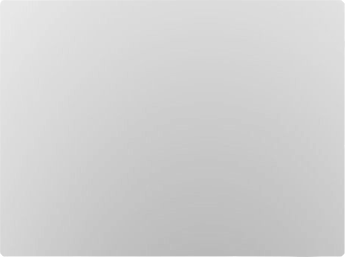
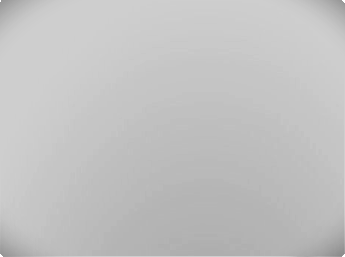
색상 변경 기능 추가: 아이팟 틀과 그라데이션 배경 동기화, 4가지 색상 지원 (기본/파랑/분홍/보라)

diff --git a/index.html b/index.html
@@ -52,6 +52,8 @@
             background-size: cover;
             background-position: center;
             z-index: 1;
+            opacity: 0.9;      /* 90% opacity */
+            filter: blur(3px); /* 3px 블러 효과 */
         }
 
         .screen-content {
@@ -82,7 +84,7 @@
         }
 
         .nav-arrow {
-            color: #fff;       /* unchanged - color */
+            color: #fff;       /* 흰색으로 복원 */
             font-size: 14.4px; /* 12px × 1.2 → 14.4px */
             cursor: pointer;
             transition: all 0.3s ease; /* unchanged - transition time */
@@ -91,12 +93,12 @@
         }
 
         .nav-arrow:hover {
-            color: rgba(255, 255, 255, 0.9); /* 0.8 → 0.9 (10% 밝기 증가) */
+            color: rgba(255, 255, 255, 0.9); /* 흰색으로 복원 */
             transform: scale(1.2); /* unchanged - scale ratio */
         }
 
         .time-display {
-            color: rgba(255, 255, 255, 1); /* 0.9 → 1 (10% 밝기 증가) */
+            color: rgba(255, 255, 255, 1); /* 흰색으로 복원 */
             font-size: 21.6px; /* 18px × 1.2 → 21.6px */
             font-weight: 900;  /* unchanged */
             cursor: pointer;
@@ -108,7 +110,7 @@
         }
 
         .time-display:hover {
-            color: rgba(255, 255, 255, 1); /* 유지 - 이미 최대 밝기 */
+            color: rgba(255, 255, 255, 1); /* 흰색으로 복원 */
             transform: scale(1.1); /* unchanged - scale ratio */
             text-shadow: 0 0 12px rgba(255, 255, 255, 0.7); /* 0.6 → 0.7 (10% 밝기 증가) */
         }
@@ -128,16 +130,16 @@
         }
 
         .album-art-container {
-            width: 99px;       /* 82.5px × 1.2 → 99px */
-            height: 81px;      /* 67.5px × 1.2 → 81px */
-            margin: 7.8px auto; /* 6.5px × 1.2 → 7.8px */
-            border-radius: 6px; /* 5px × 1.2 → 6px */
+            width: 89px;
+            height: 86px;
+            margin: 4.8px;
+            border-radius: 6px;
             overflow: hidden;
-            box-shadow: 0 1.2px 4.8px rgba(0,0,0,0.4); /* 1px × 1.2 → 1.2px, 4px × 1.2 → 4.8px */
-            transition: all 0.3s ease; /* unchanged - transition time */
+            box-shadow: 0 1.2px 4.8px rgba(0, 0, 0, 0.4);
+            transition: all 0.3s ease;
             cursor: pointer;
             position: relative;
-            background: linear-gradient(135deg, #444 0%, #222 100%); /* #333→#444, #111→#222 (10% 밝기 증가) */
+            background: linear-gradient(135deg, #444 0%, #222 100%);
         }
 
         .album-art-container:hover {
@@ -289,6 +291,23 @@
         let startTimestamp = null;
         let pausedTime = 0;
 
+        // Color changing feature
+        const colorImages = [
+            './아이팟 틀 이미지.png',        // default
+            './아이팟 틀 이미지_blue.png',   // blue
+            './아이팟 틀 이미지_pink.png',   // pink
+            './아이팟 틀 이미지_purple.png'  // purple
+        ];
+        
+        const gradientImages = [
+            './검은색 그라데이션 배경.png',    // default - black
+            './파란색 그라데이션 배경.png',    // blue
+            './분홍색 그라데이션 배경.png',    // pink
+            './보라색 그라데이션 배경.png'     // purple
+        ];
+        
+        let currentColorIndex = 0;
+
         // 시간 변경 (화살표 클릭)
         function changeTime(direction) {
             currentTimeIndex += direction;
@@ -426,9 +445,35 @@
             pausedTime = 0;
         }
 
+        // Color cycling function
+        function cycleColor(event) {
+            // Check if click is on screen area, wheel buttons, or overlays - if so, ignore
+            if (event.target.closest('.screen-area') || 
+                event.target.closest('.button-overlays') ||
+                event.target.closest('.center-button-overlay') ||
+                event.target.closest('.pause-button-overlay')) {
+                return;
+            }
+
+            currentColorIndex = (currentColorIndex + 1) % colorImages.length;
+            
+            // Update iPod container color
+            const container = document.querySelector('.ipod-container');
+            container.style.backgroundImage = `url('${colorImages[currentColorIndex]}')`;
+            
+            // Update gradient background to match
+            const gradientBackground = document.querySelector('.gradient-background');
+            gradientBackground.style.backgroundImage = `url('${gradientImages[currentColorIndex]}')`;
+        }
+
         // 페이지 로드 시 이미지 로드
         window.onload = function() {
             loadImageFromURL();
+            
+            // Add color cycling click listener to container
+            const container = document.querySelector('.ipod-container');
+            container.addEventListener('click', cycleColor);
+            container.style.cursor = 'pointer';
         };
     </script>
 </body>
